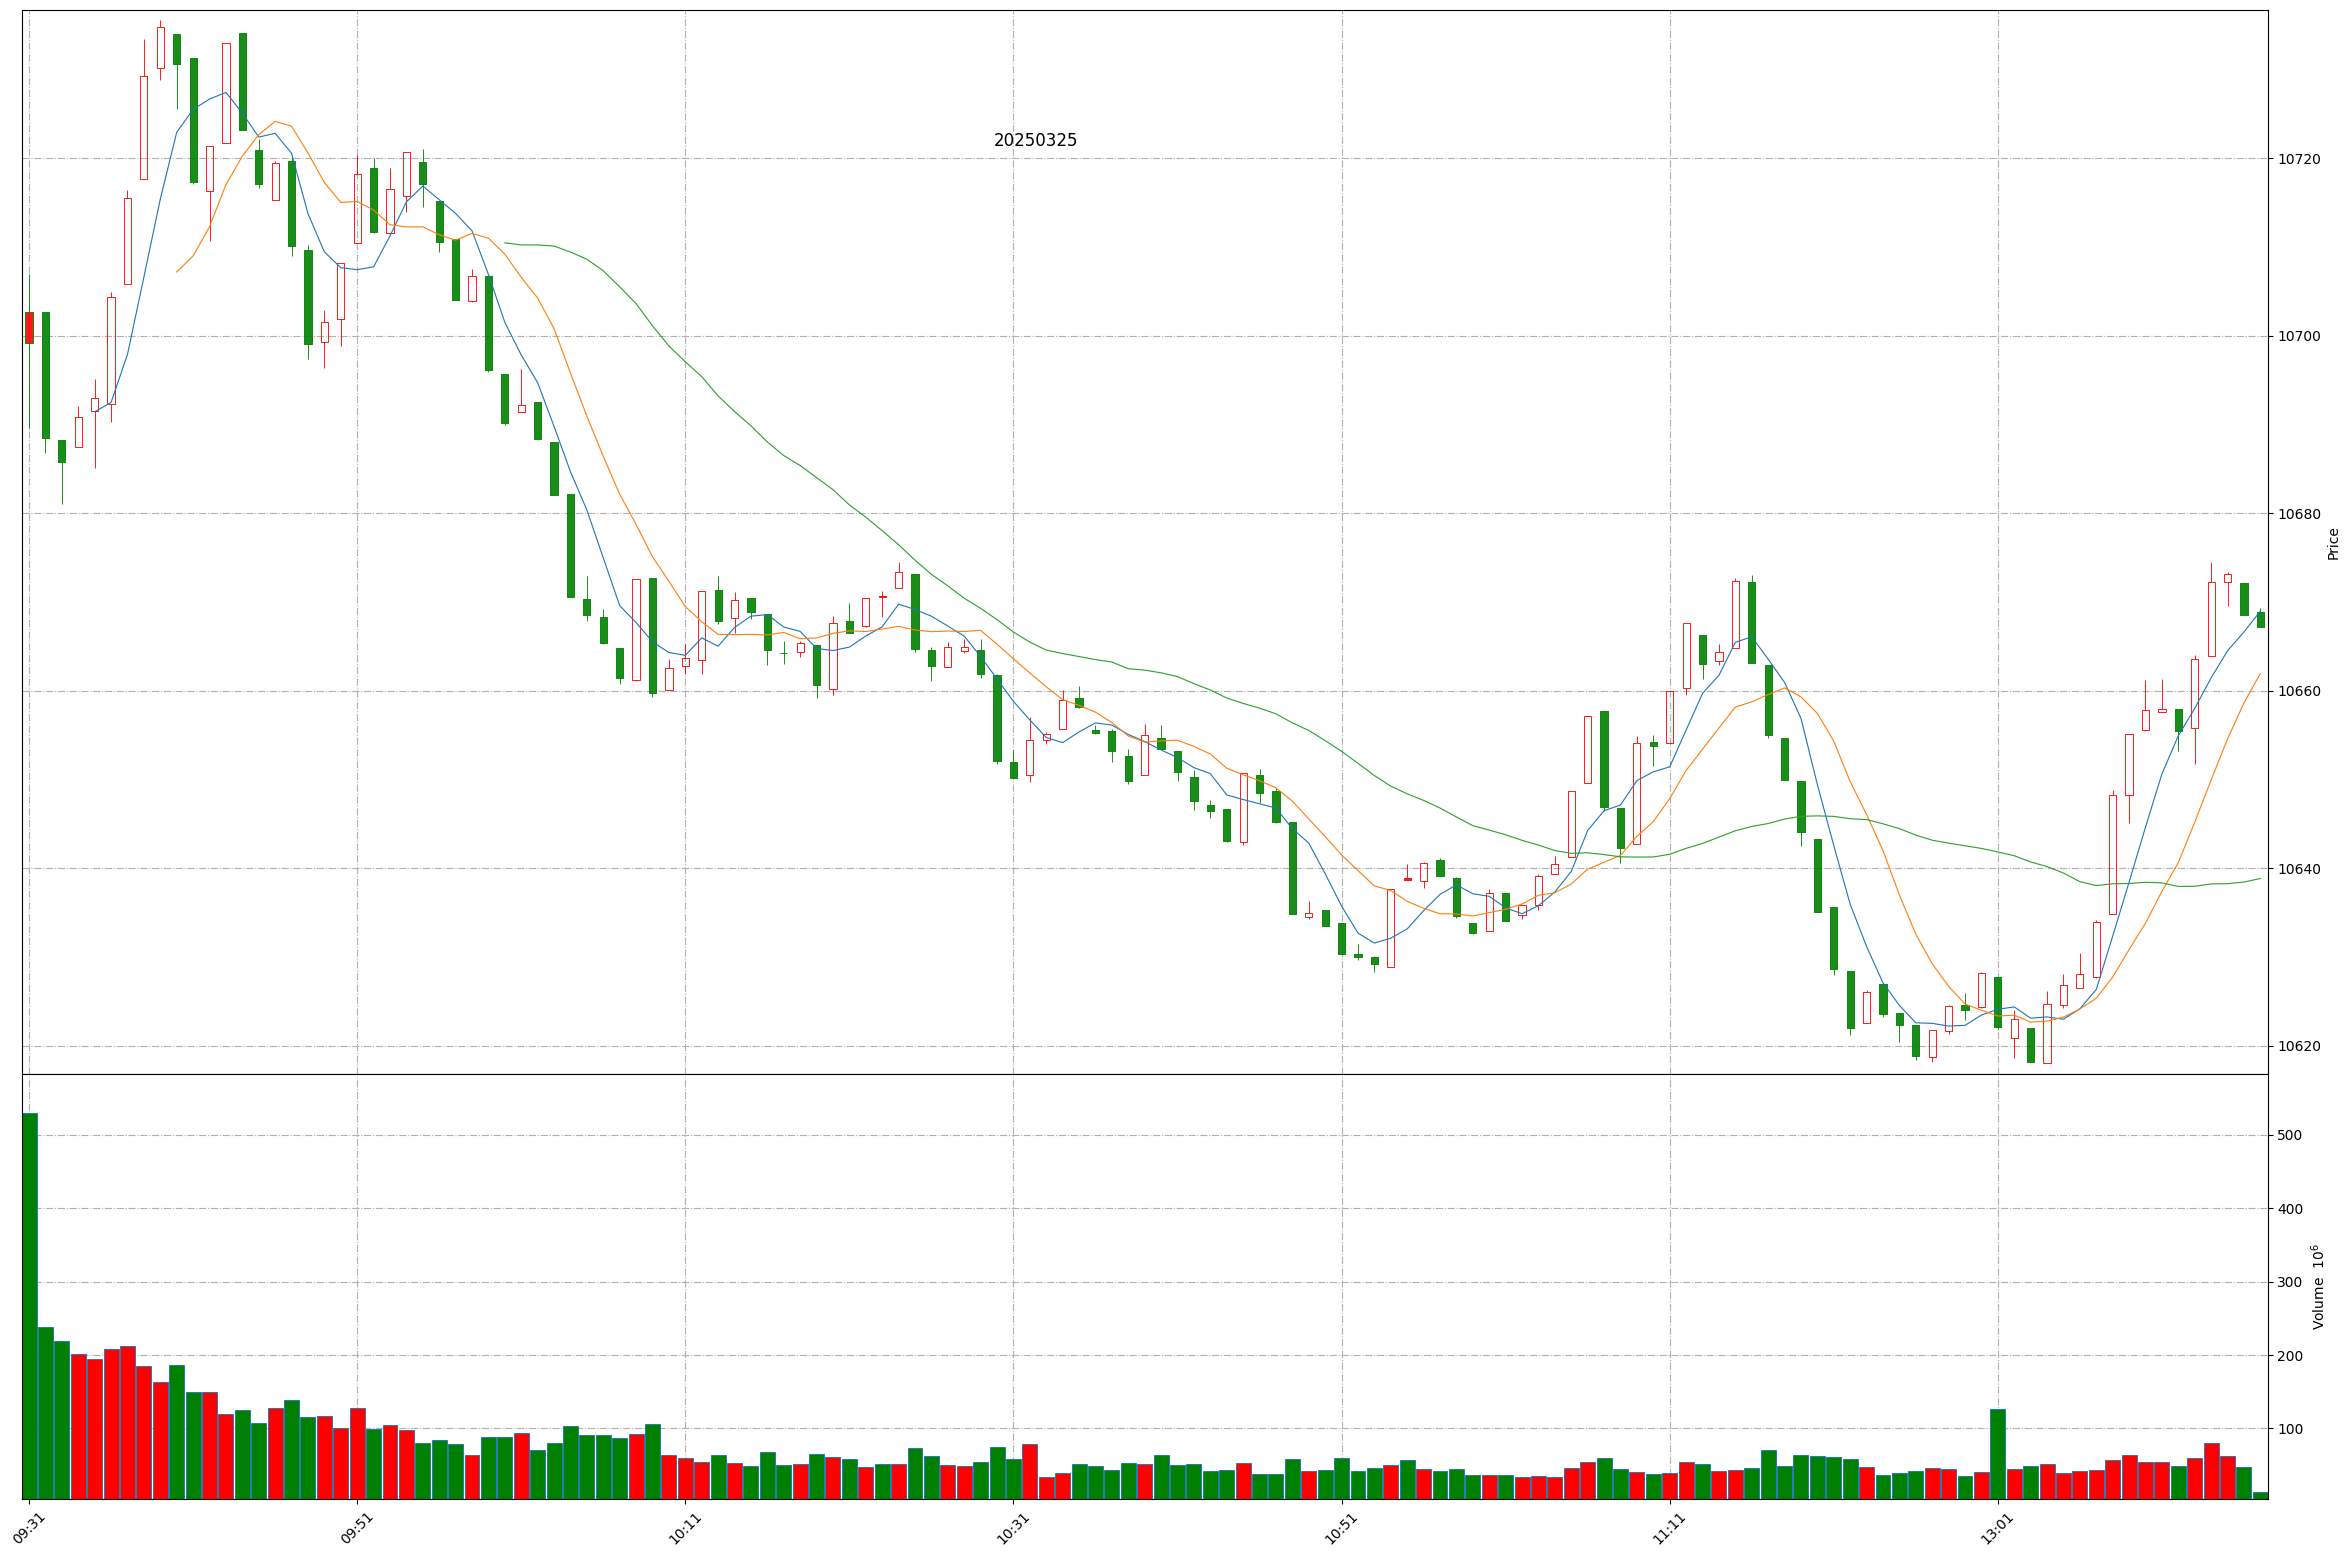
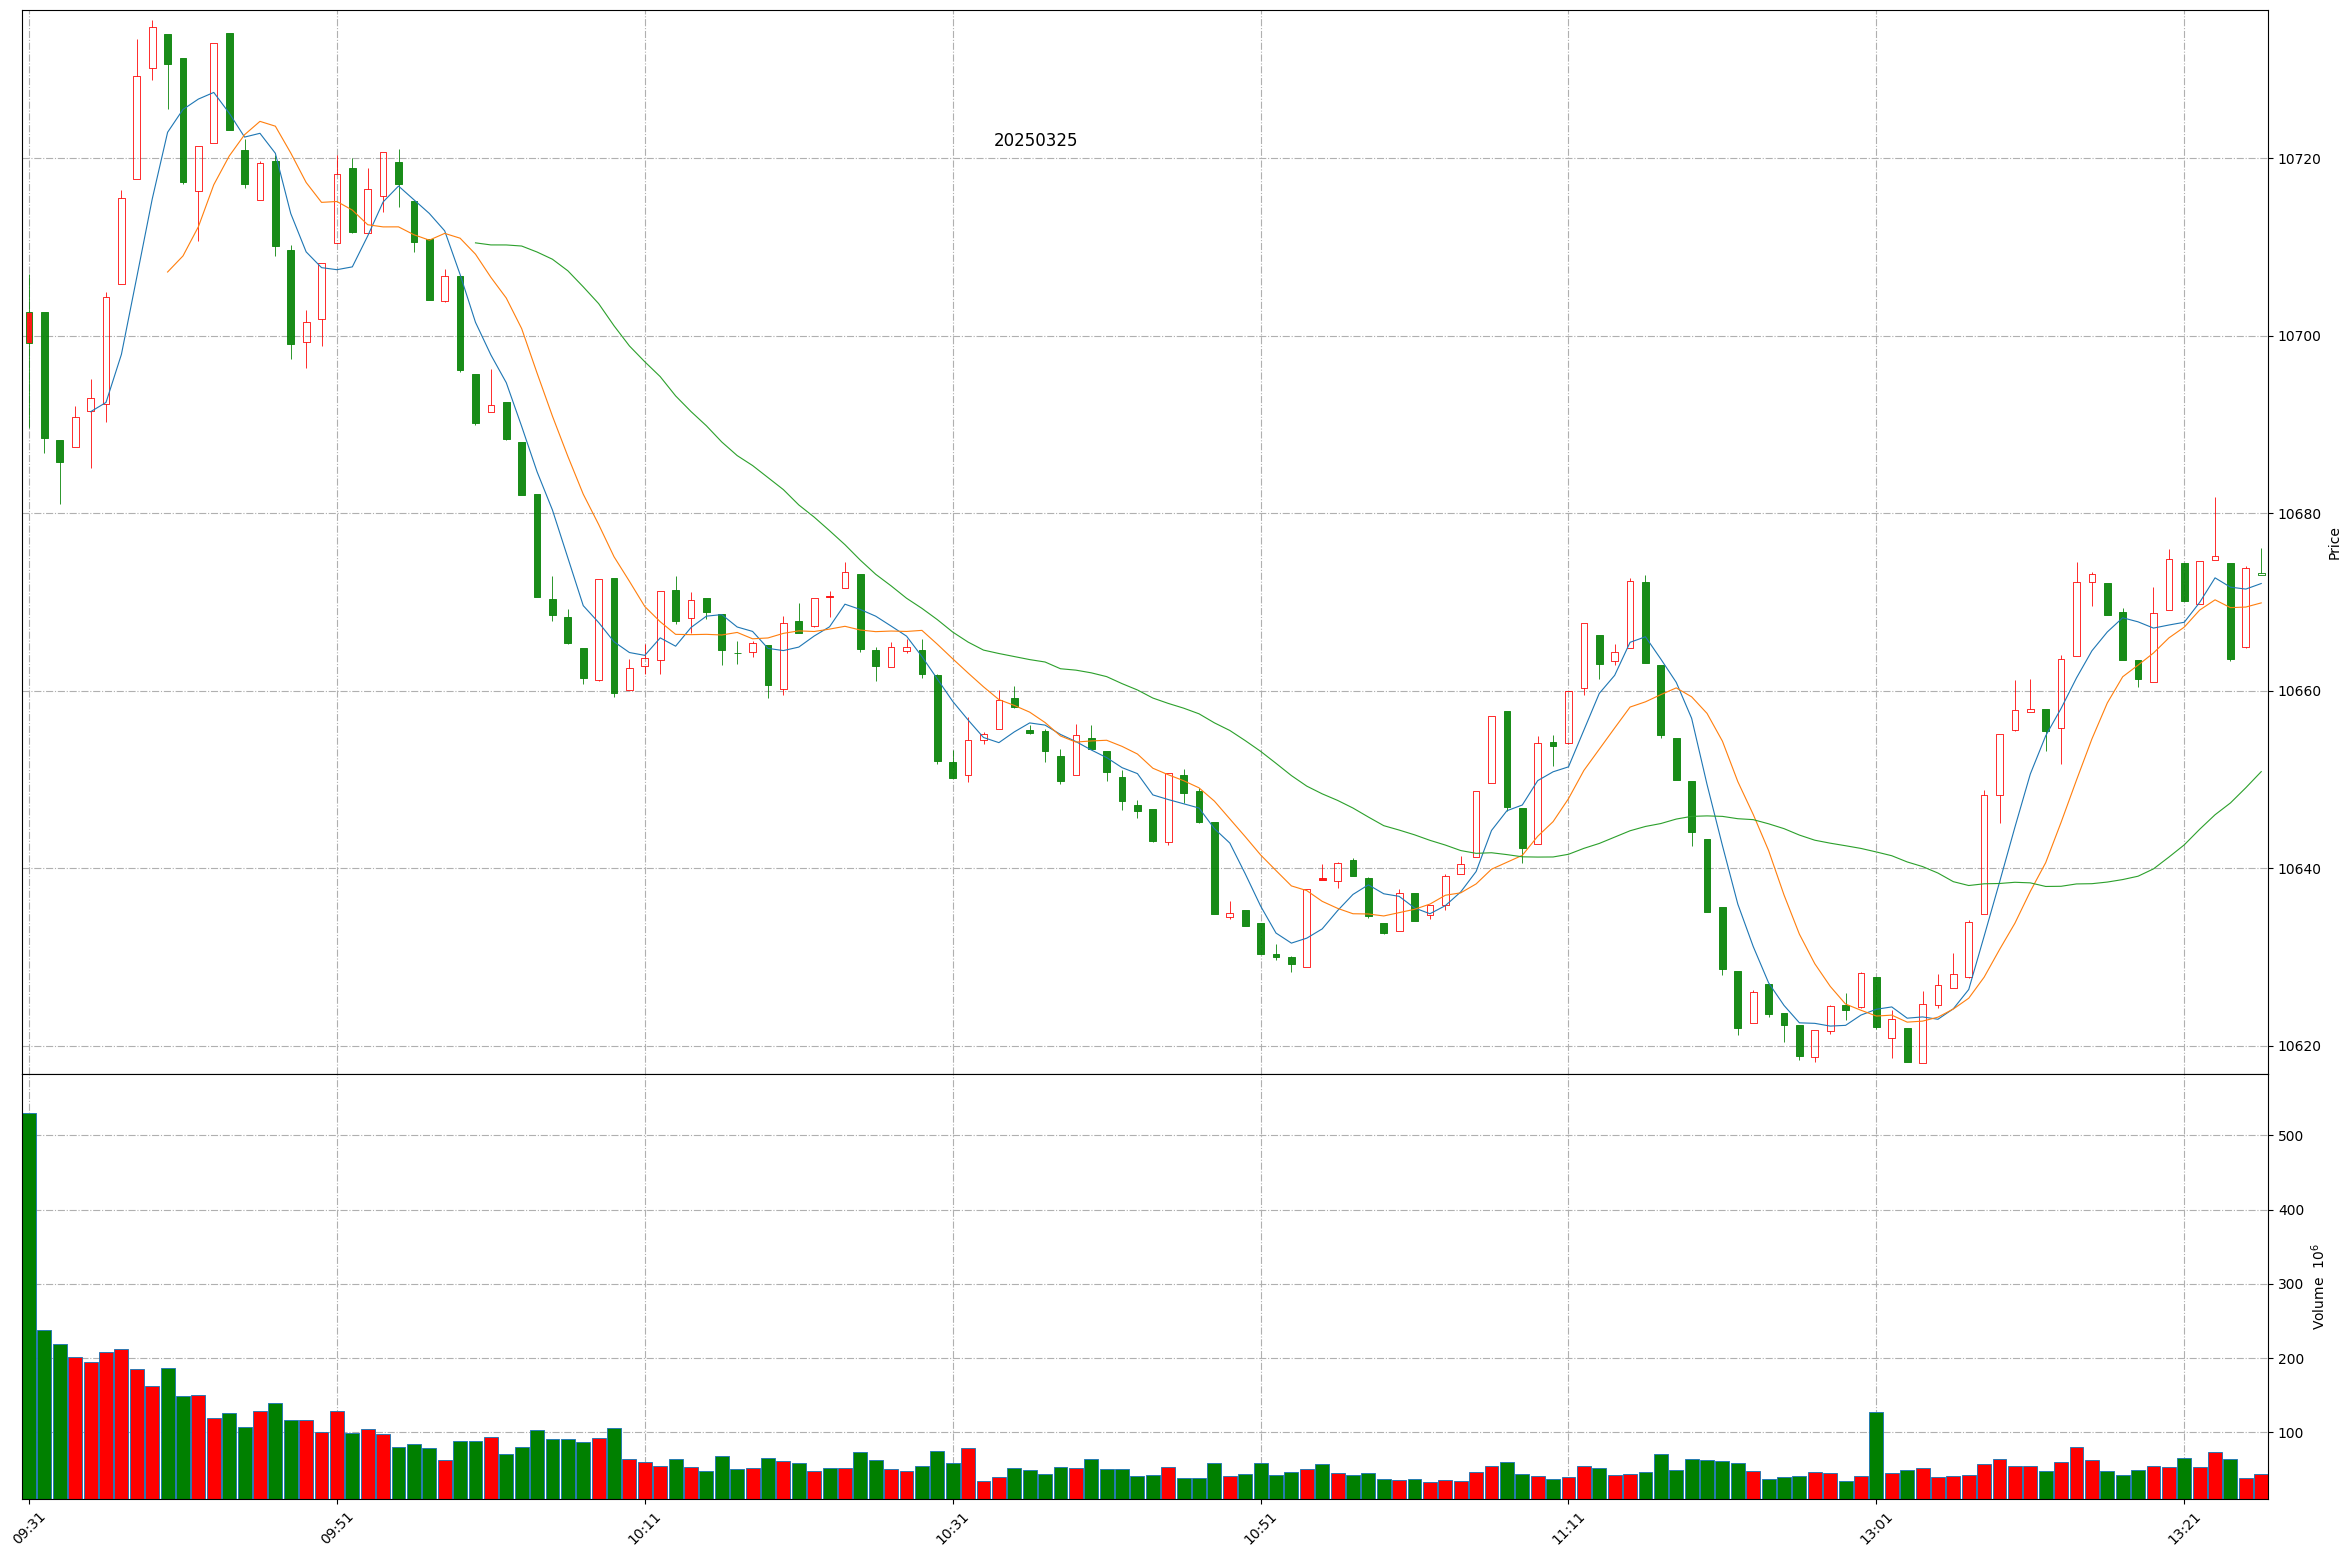
Github action update at 2025-03-25 13:26:14.

diff --git a/README.md b/README.md
@@ -1,11 +1,11 @@
 
 # Daily-A-share-market-quotes 每日 A 股指数（5min 更新）- 20250325
 
-### 上证指数 20250325 13:16
+### 上证指数 20250325 13:26
 ![](./fig/2025/3/20250325-sh000001.png)
 
-### 深证成指 20250325 13:16
+### 深证成指 20250325 13:26
 ![](./fig/2025/3/20250325-sz399001.png)
 
-### 北证50 20250325 13:16
+### 北证50 20250325 13:26
 ![](./fig/2025/3/20250325-bj899050.png)
